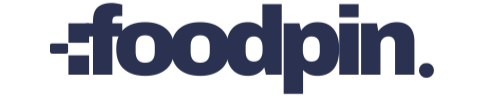
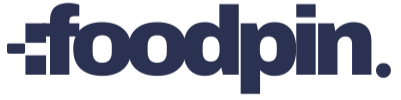
header 로고 크기 수정, 빠른 로그인 제거

Changed region(s): [[0.419, 0.03, 0.9875, 0.96], [0.0, 0.0, 0.419, 0.78], [0.6584, 0.03, 0.808, 0.18]]

diff --git a/foodpin/src/main/resources/templates/common/header.html b/foodpin/src/main/resources/templates/common/header.html
@@ -7,9 +7,9 @@
     <section class="header-top-menu">
 
         <div class="login-area">
-            <button class="main-quick-login">member01</button><br>
+            <!-- <button class="main-quick-login">member01</button><br>
             <button class="main-quick-login">member02</button><br>
-            <button class="main-quick-login">member03</button><br>
+            <button class="main-quick-login">member03</button><br> -->
 
             <!-- 로그인, 프로필이미지/닉네임/로그이웃 -->
             <div class="login-box" th:if="${session.loginMember != null}">

diff --git a/foodpin/src/main/resources/static/css/main-style.css b/foodpin/src/main/resources/static/css/main-style.css
@@ -231,6 +231,7 @@ header {
 
 .header-top-menu a {
    padding: 0 10px;
+   z-index: 100
 }
 /* 로고(사진, 글) */
 .home-logo-area {
